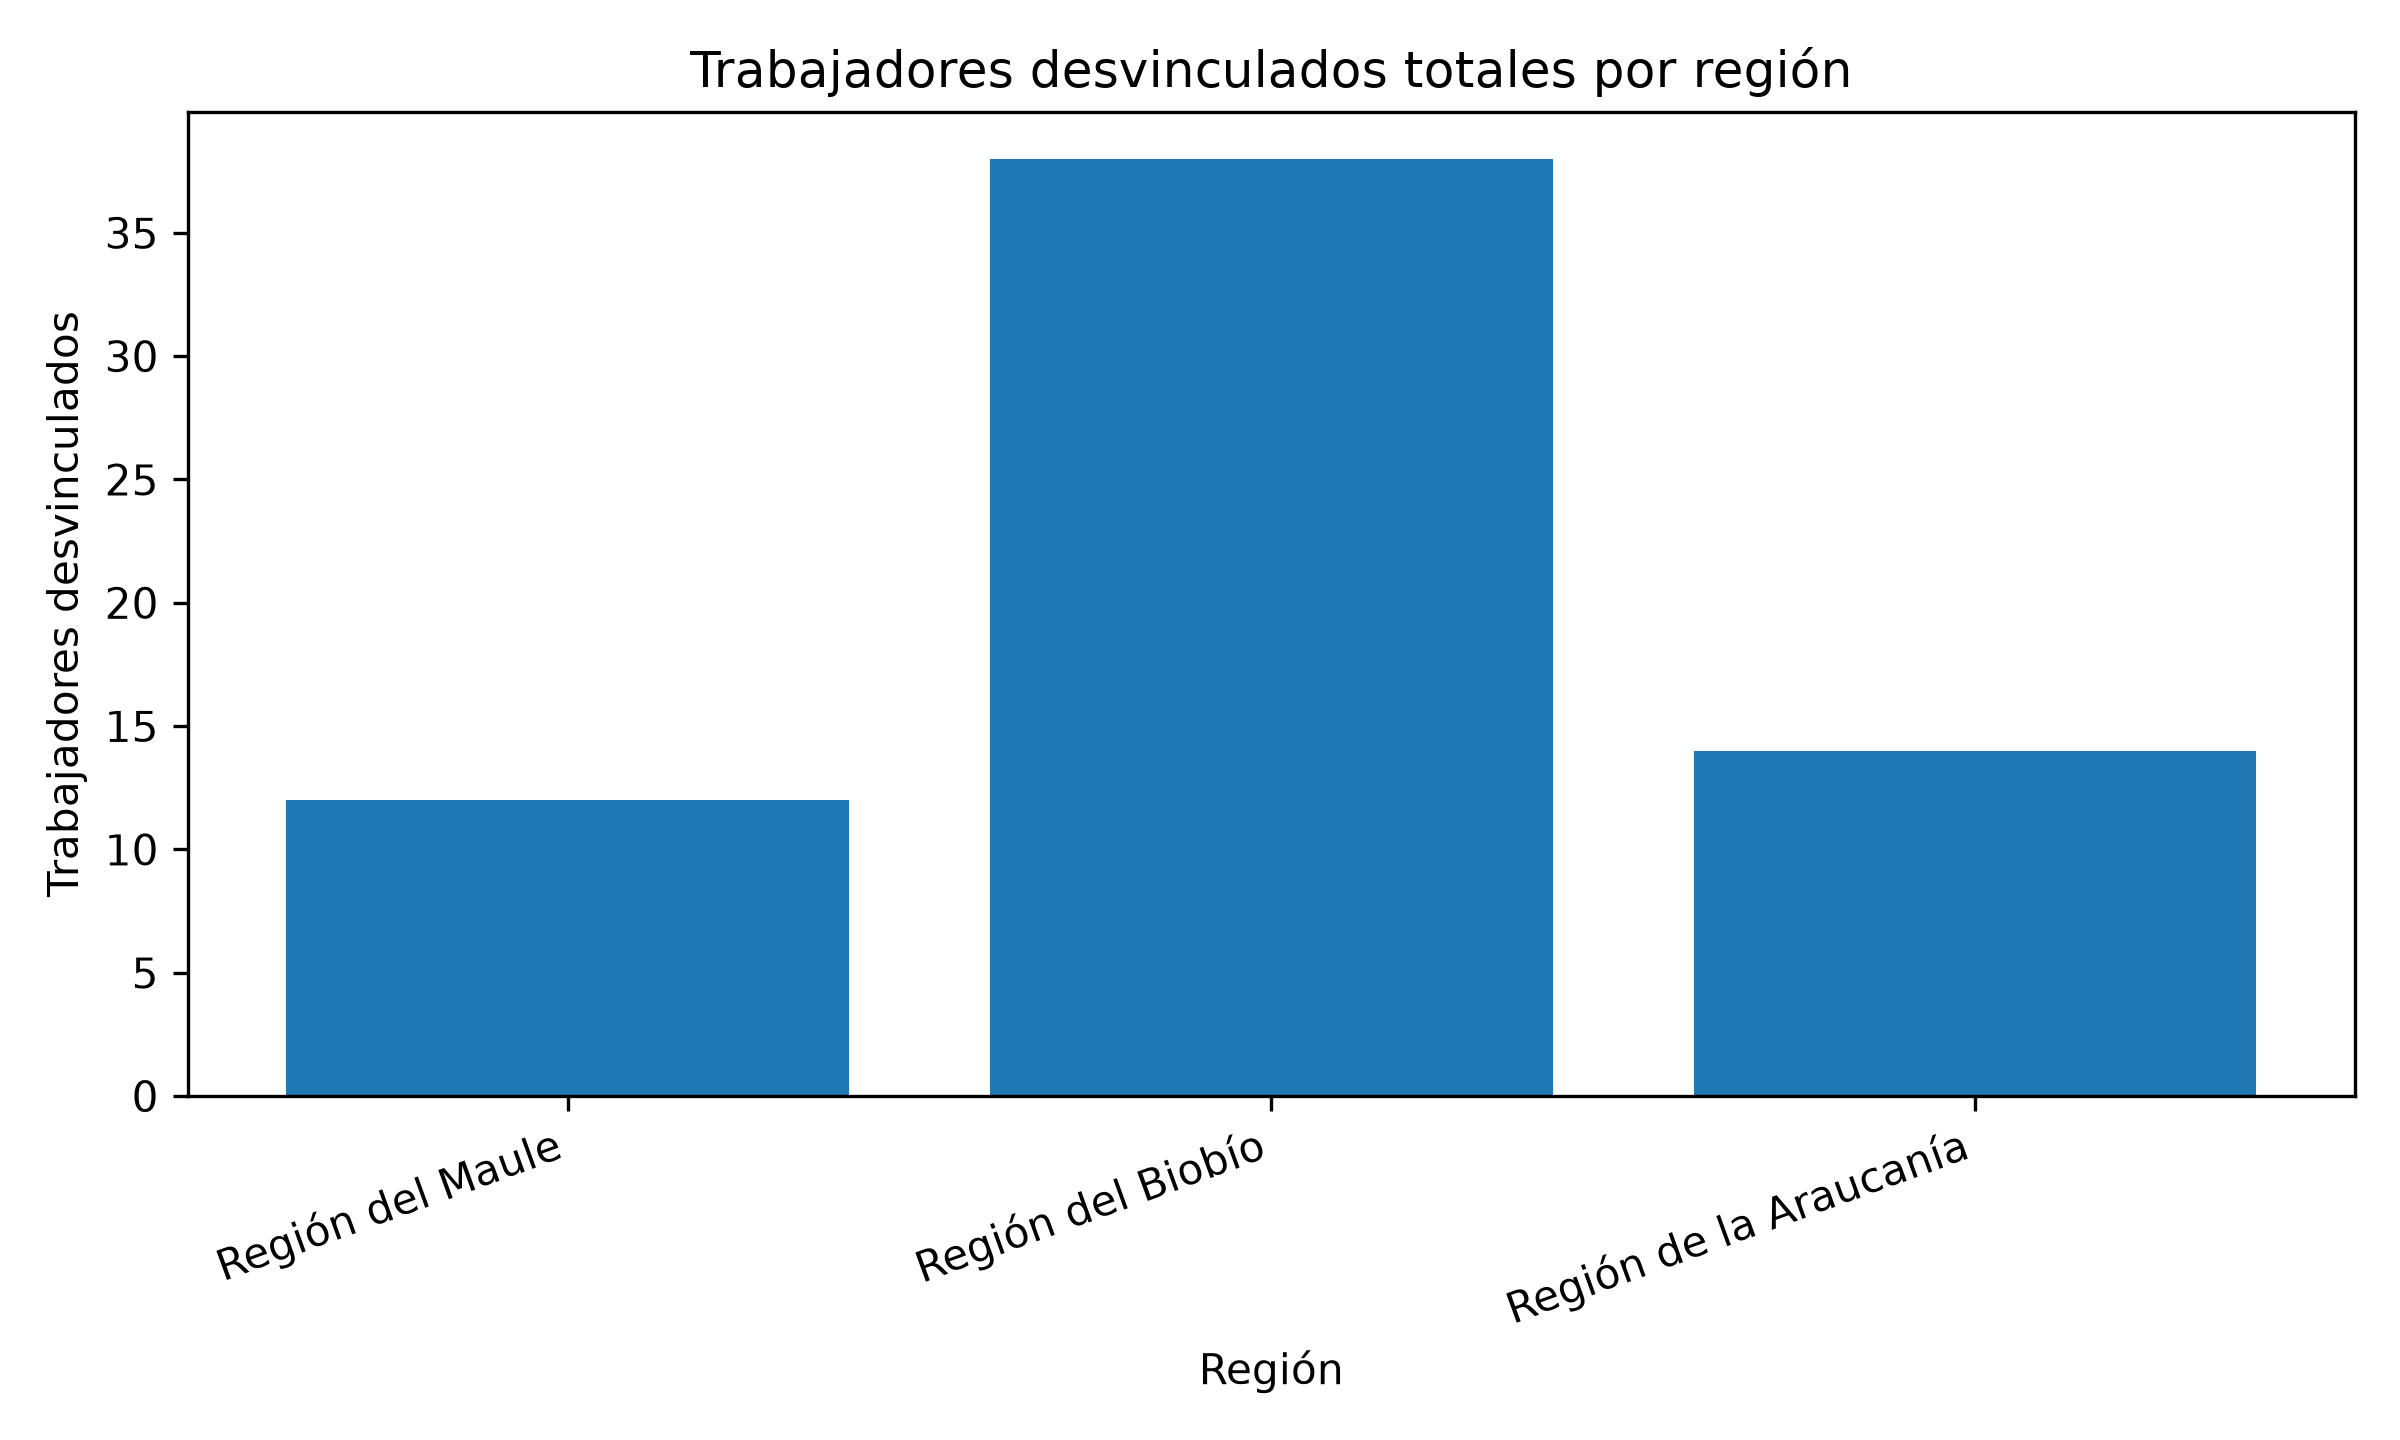
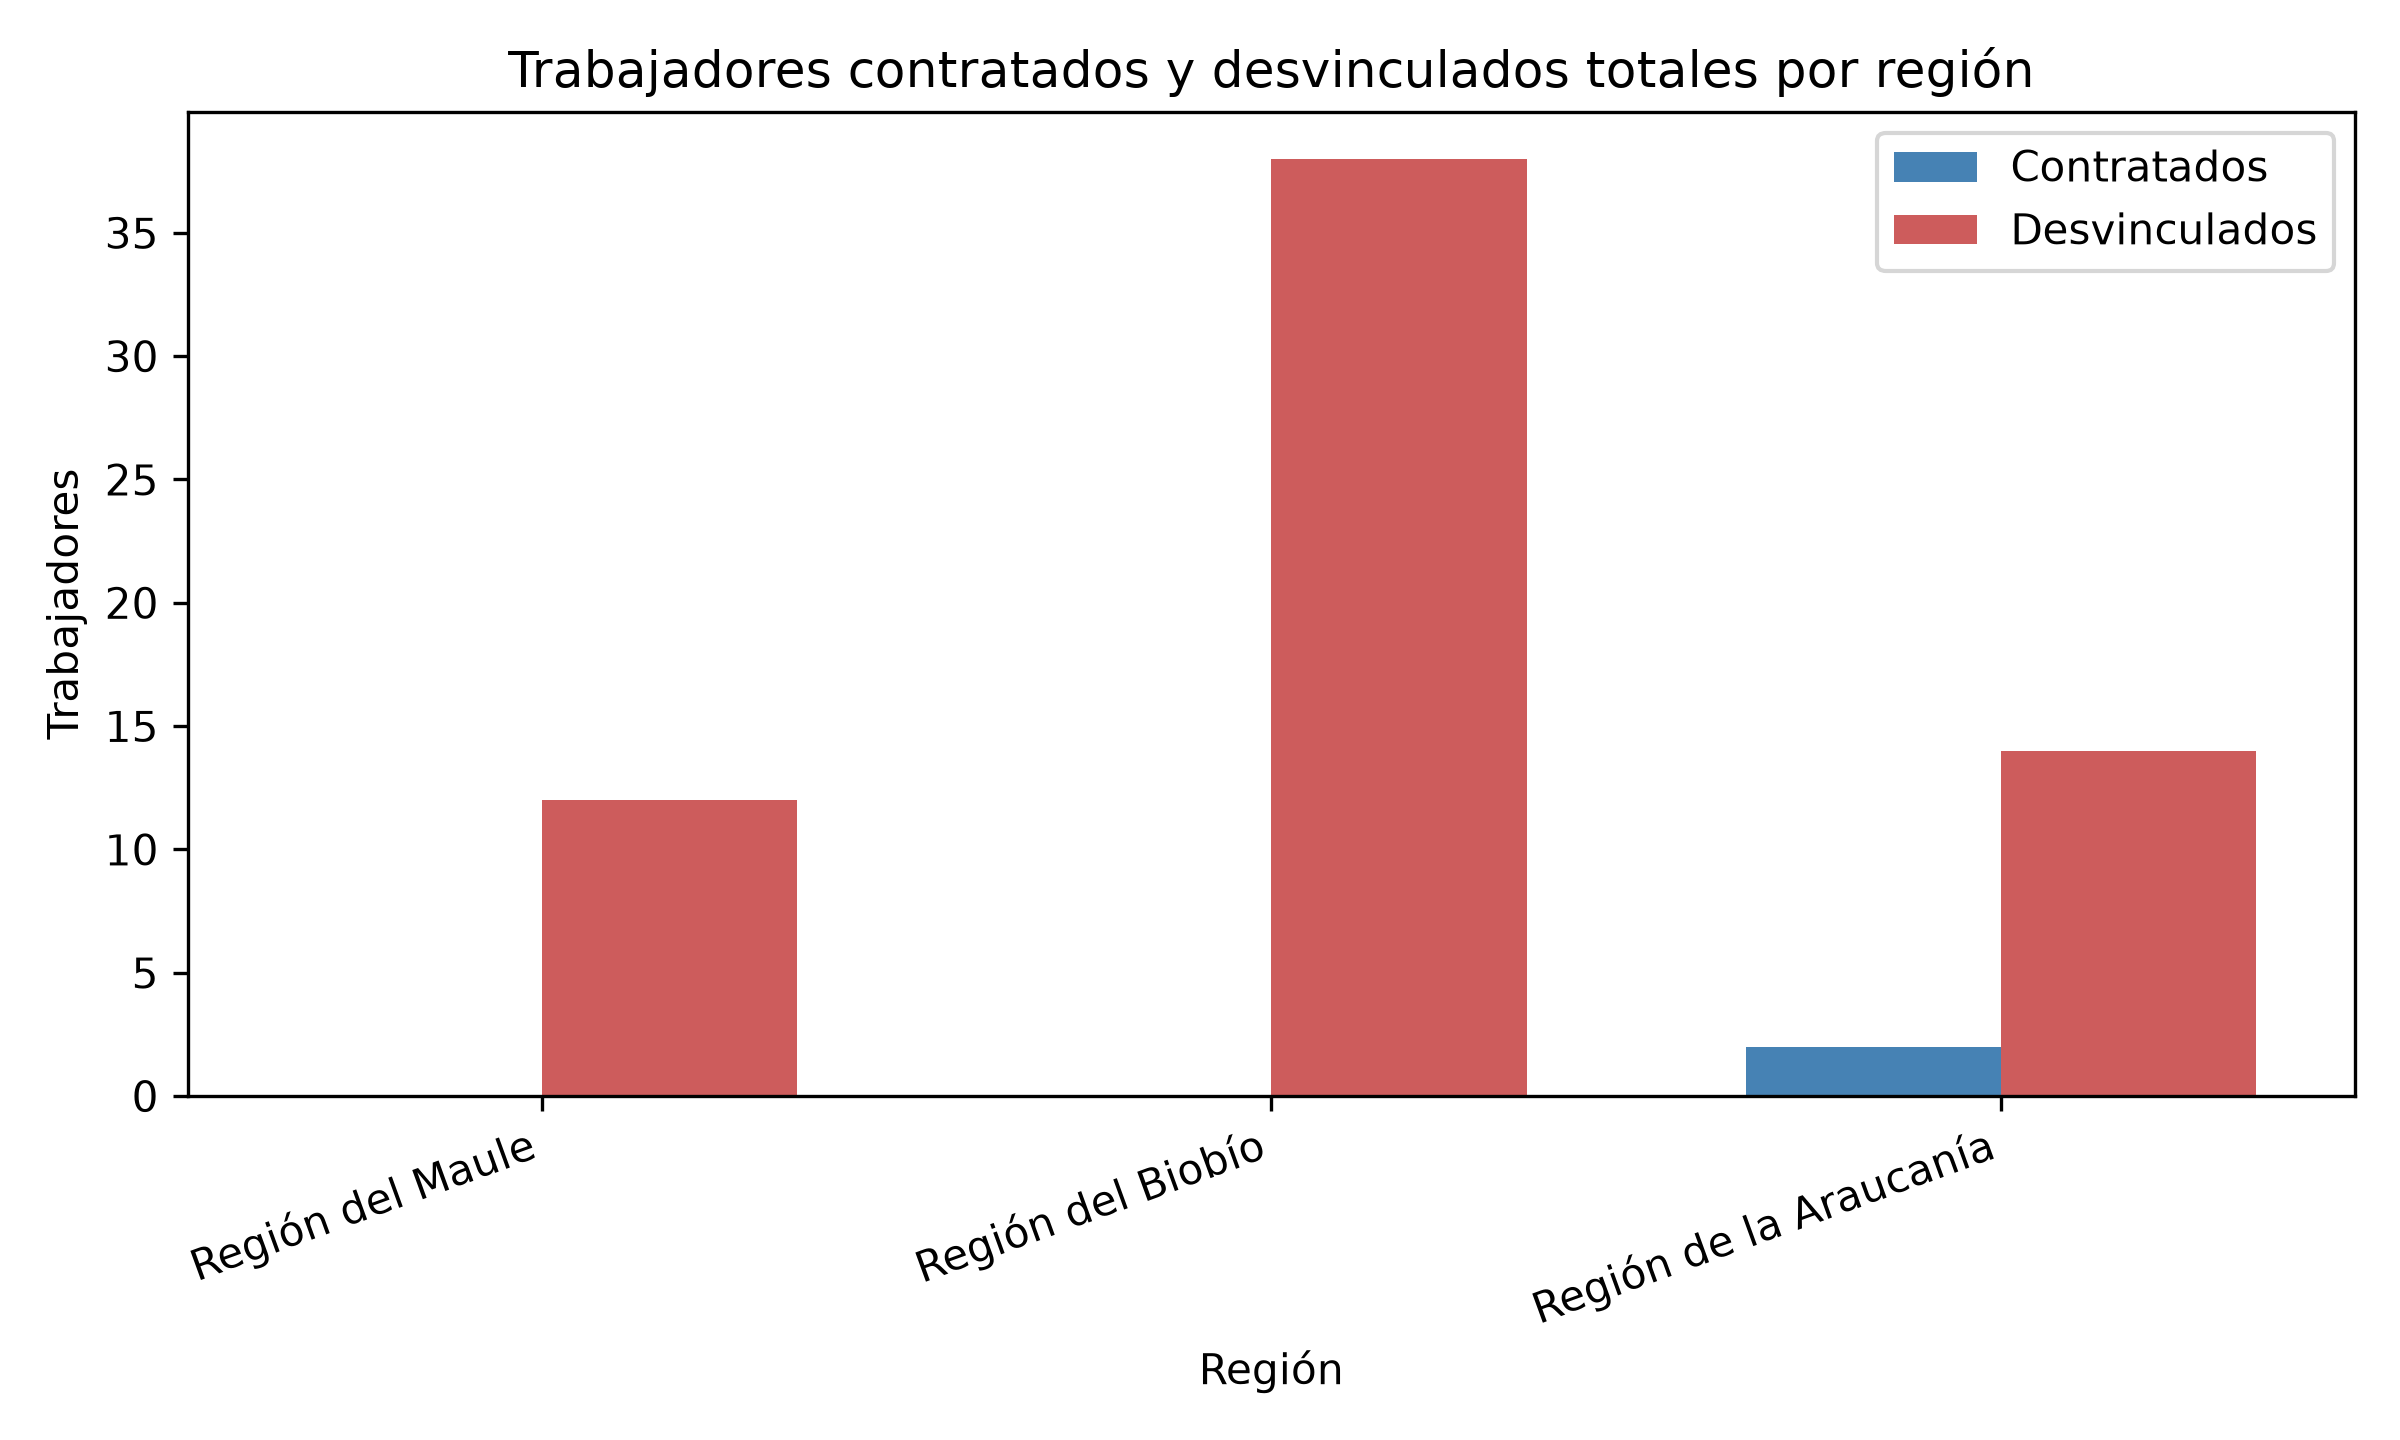
add trabajadores desvinculateados

diff --git a/main.py b/main.py
@@ -727,28 +727,40 @@ def generar_graficos_desde_txt(ruta_txt: Path):
     plt.close()
 
     # ==========================
-    # 2. Trabajadores desvinculados por región
+    # 2. Trabajadores contratados y desvinculados por región
     # ==========================
 
+    contratados_zona = []
     desvinculados_zona = []
 
     for i in conjuntos.i:
-        total_zona = sum(
+        total_cont = sum(
+            valor
+            for (ii, t), valor in resultados["H"].items()
+            if ii == i
+        )
+        total_desv = sum(
             valor
             for (ii, t), valor in resultados["D"].items()
             if ii == i
         )
-        desvinculados_zona.append(total_zona)
+        contratados_zona.append(total_cont)
+        desvinculados_zona.append(total_desv)
 
     plt.figure(figsize=(8, 4.8))
-    plt.bar([zonas[i] for i in conjuntos.i], desvinculados_zona)
-    plt.title("Trabajadores desvinculados totales por región")
+    x = np.arange(len(conjuntos.i))
+    width = 0.35
+    plt.bar(x - width/2, contratados_zona, width, label="Contratados", color="steelblue")
+    plt.bar(x + width/2, desvinculados_zona, width, label="Desvinculados", color="indianred")
+    plt.title("Trabajadores contratados y desvinculados totales por región")
     plt.xlabel("Región")
-    plt.ylabel("Trabajadores desvinculados")
-    plt.xticks(rotation=20, ha="right")
+    plt.ylabel("Trabajadores")
+    plt.xticks(ticks=x, labels=[zonas[i] for i in conjuntos.i], rotation=20, ha="right")
+    plt.legend()
     plt.tight_layout()
     plt.savefig(carpeta / "desvinculados.png", dpi=300)
     plt.close()
+
 
     # ==========================
     # 3. Asignación mensual de chipeadoras por zona (mapa de calor)